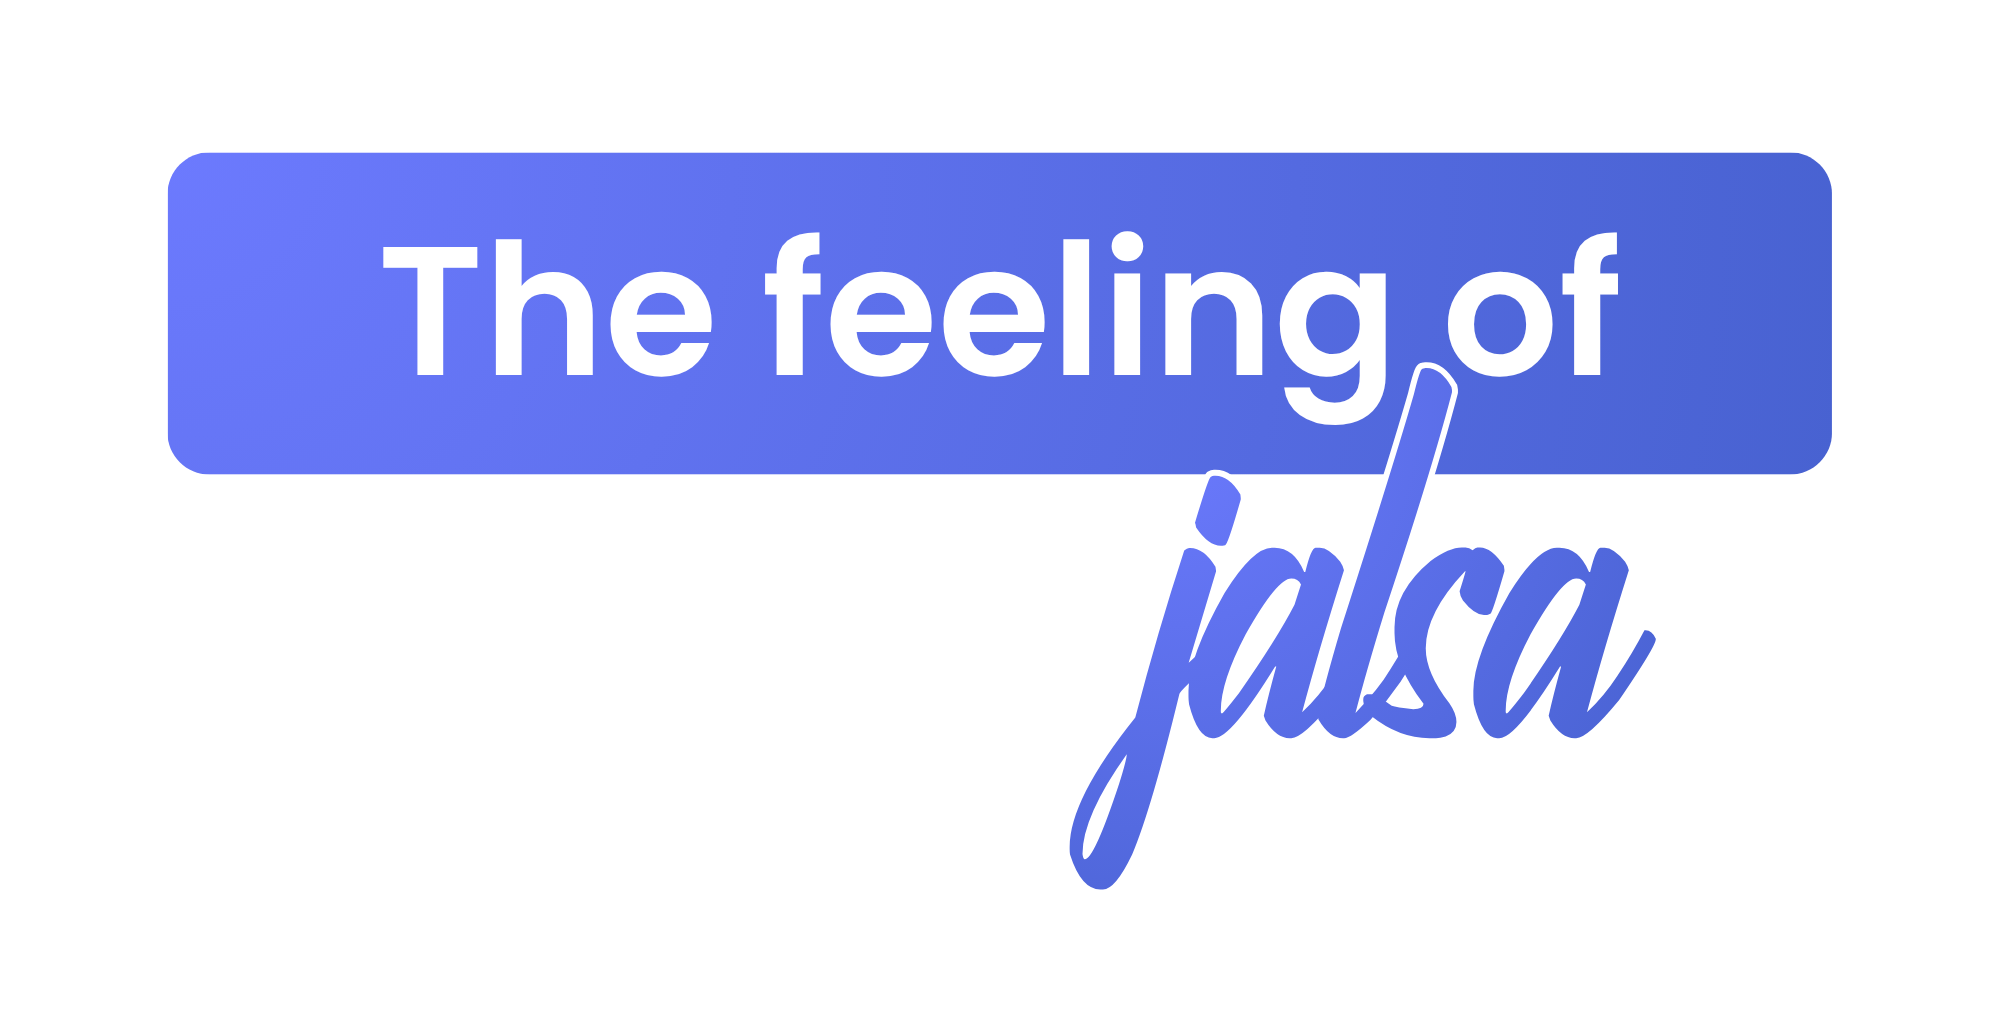
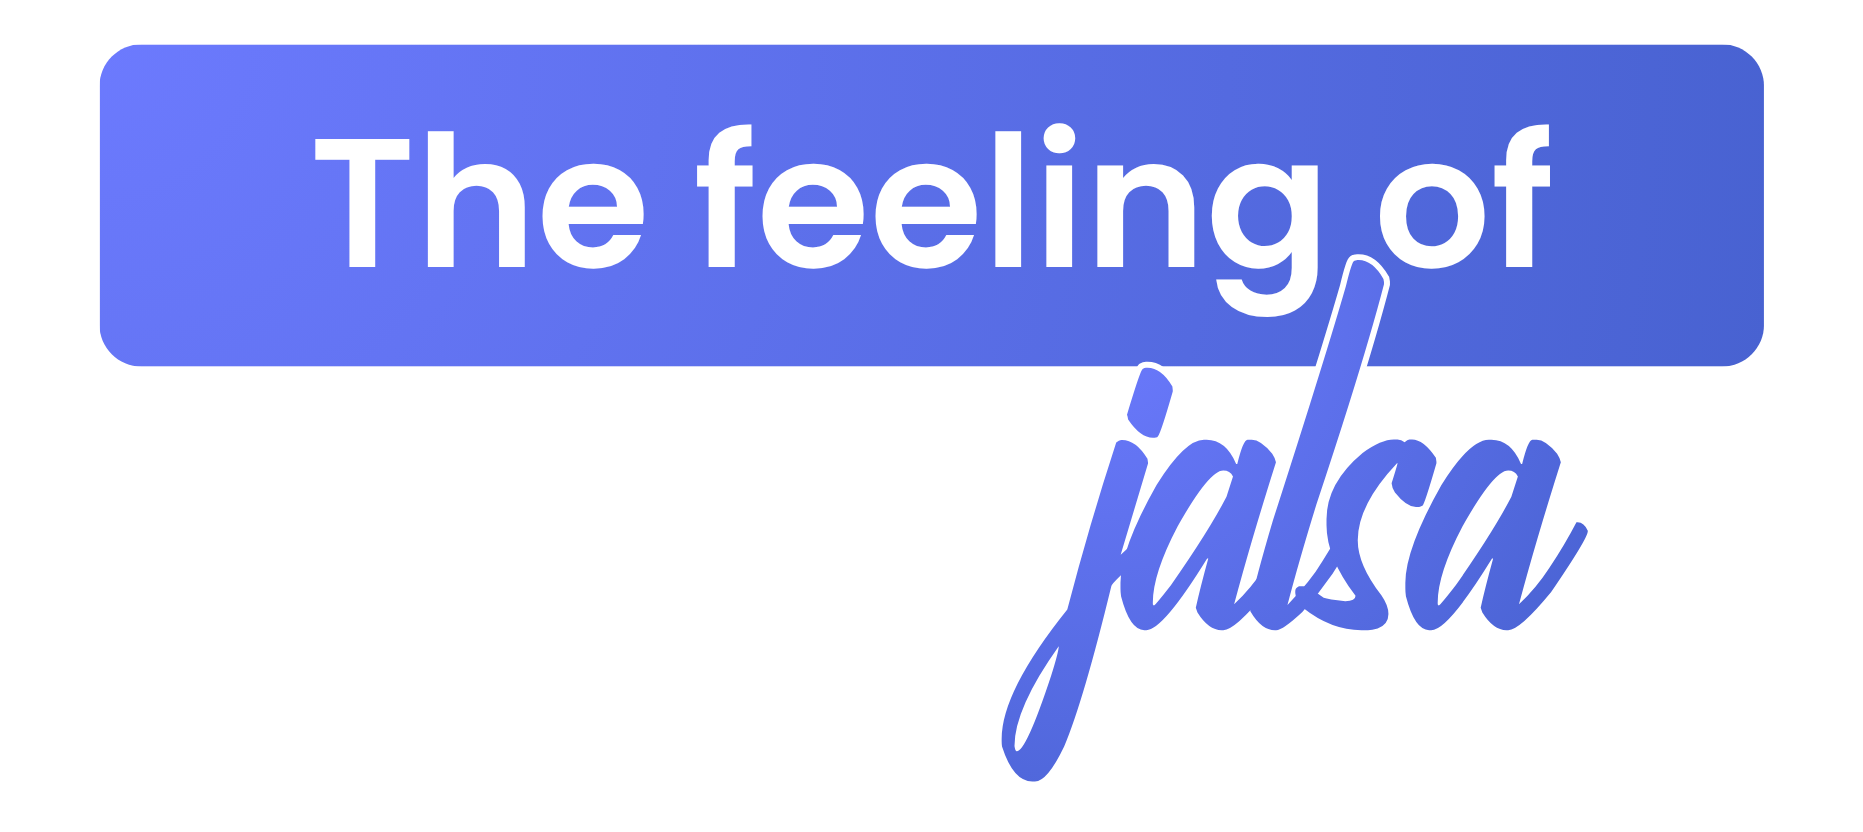
Added VVN and Bhopal to the Wesbite

Changed region(s): [[0.0311, 0.0312, 0.9651, 0.9375]]

diff --git a/cities.html b/cities.html
@@ -38,6 +38,7 @@
                     <ul class="dropdown-menu">
                         <li><a href="ahmedabad.html">Ahmedabad</a></li>
                        <li><a href="bengaluru.html">Bengaluru</a></li>
+                        <li><a href="bhopal.html">Bhopal</a></li>
                         <li><a href="chandigarh.html">Chandigarh</a></li>
                         <li><a href="chennai.html">Chennai</a></li>
                        <li><a href="delhi-iit.html">Delhi IIT</a></li>
@@ -55,6 +56,7 @@
                         <li><a href="pune.html">Pune</a></li>
                         <li><a href="surat.html">Surat</a></li>
                         <li><a href="visakhapatnam.html">Visakhapatnam</a></li>
+                        <li><a href="vvn.html">VVN</a></li>
                     </ul>
                 </li>
                 <li class="dropdown">
@@ -76,7 +78,7 @@
         <div class="container">
             <div class="section-header">
                 <h1 class="section-title">Explore All Cities</h1>
-                <p class="section-desc">19 AIESEC Local Committees across India — each offering a unique cultural immersion and exchange experience.</p>
+                <p class="section-desc">21 AIESEC Local Committees across India — each offering a unique cultural immersion and exchange experience.</p>
             </div>
         </div>
     </section>
@@ -106,6 +108,18 @@
                         </div>
                         <div class="city-mini-content">
                             <span class="city-mini-state">Karnataka</span>
+                            <span class="city-mini-explore">Explore →</span>
+                        </div>
+                </a>
+
+                <a href="bhopal.html" class="city-mini-card">
+                        <div class="city-mini-img">
+                            <img src="https://upload.wikimedia.org/wikipedia/commons/5/56/Raja_Bhoj_Statue_on_Upper_Lake%2C_Bhopal..JPG" alt="Bhopal" loading="lazy">
+                            <div class="city-mini-overlay"></div>
+                            <div class="city-mini-name">Bhopal</div>
+                        </div>
+                        <div class="city-mini-content">
+                            <span class="city-mini-state">Madhya Pradesh</span>
                             <span class="city-mini-explore">Explore →</span>
                         </div>
                 </a>
@@ -310,6 +324,18 @@
                         </div>
                         <div class="city-mini-content">
                             <span class="city-mini-state">Andhra Pradesh</span>
+                            <span class="city-mini-explore">Explore →</span>
+                        </div>
+                </a>
+
+                <a href="vvn.html" class="city-mini-card">
+                        <div class="city-mini-img">
+                            <img src="https://upload.wikimedia.org/wikipedia/commons/d/d6/Nalini-Arvind_and_T._V._Patel_Arts_College.jpg" alt="VVN" loading="lazy">
+                            <div class="city-mini-overlay"></div>
+                            <div class="city-mini-name">VVN</div>
+                        </div>
+                        <div class="city-mini-content">
+                            <span class="city-mini-state">Gujarat</span>
                             <span class="city-mini-explore">Explore →</span>
                         </div>
                 </a>

diff --git a/index.html b/index.html
@@ -46,6 +46,7 @@
                     <ul class="dropdown-menu">
                         <li><a href="ahmedabad.html">Ahmedabad</a></li>
                        <li><a href="bengaluru.html">Bengaluru</a></li>
+                        <li><a href="bhopal.html">Bhopal</a></li>
                         <li><a href="chandigarh.html">Chandigarh</a></li>
                         <li><a href="chennai.html">Chennai</a></li>
                        <li><a href="delhi-iit.html">Delhi IIT</a></li>
@@ -63,6 +64,7 @@
                         <li><a href="pune.html">Pune</a></li>
                         <li><a href="surat.html">Surat</a></li>
                         <li><a href="visakhapatnam.html">Visakhapatnam</a></li>
+                        <li><a href="vvn.html">VVN</a></li>
                     </ul>
                 </li>
                 <li class="dropdown">
@@ -169,7 +171,7 @@
         <div class="container">
             <div class="section-header">
                 <h2 class="section-title">Explore Our Cities</h2>
-                <p class="section-desc">19 AIESEC Local Committees spread across India, each with its own flavour of culture and exchange.</p>
+                <p class="section-desc">21 AIESEC Local Committees spread across India, each with its own flavour of culture and exchange.</p>
             </div>
             <div class="cities-grid-responsive">
 
@@ -193,6 +195,18 @@
                     </div>
                     <div class="city-mini-content">
                         <span class="city-mini-state">Karnataka</span>
+                        <span class="city-mini-explore">Explore →</span>
+                    </div>
+                </a>
+
+                <a href="bhopal.html" class="city-mini-card">
+                    <div class="city-mini-img">
+                        <img src="https://upload.wikimedia.org/wikipedia/commons/5/56/Raja_Bhoj_Statue_on_Upper_Lake%2C_Bhopal..JPG" alt="Bhopal" loading="lazy">
+                        <div class="city-mini-overlay"></div>
+                        <div class="city-mini-name">Bhopal</div>
+                    </div>
+                    <div class="city-mini-content">
+                        <span class="city-mini-state">Madhya Pradesh</span>
                         <span class="city-mini-explore">Explore →</span>
                     </div>
                 </a>
@@ -397,6 +411,18 @@
                     </div>
                     <div class="city-mini-content">
                         <span class="city-mini-state">Andhra Pradesh</span>
+                        <span class="city-mini-explore">Explore →</span>
+                    </div>
+                </a>
+
+                <a href="vvn.html" class="city-mini-card">
+                    <div class="city-mini-img">
+                        <img src="https://upload.wikimedia.org/wikipedia/commons/d/d6/Nalini-Arvind_and_T._V._Patel_Arts_College.jpg" alt="VVN" loading="lazy">
+                        <div class="city-mini-overlay"></div>
+                        <div class="city-mini-name">VVN</div>
+                    </div>
+                    <div class="city-mini-content">
+                        <span class="city-mini-state">Gujarat</span>
                         <span class="city-mini-explore">Explore →</span>
                     </div>
                 </a>

diff --git a/opportunities.html b/opportunities.html
@@ -388,6 +388,7 @@
                     <ul class="dropdown-menu">
                         <li><a href="ahmedabad.html">Ahmedabad</a></li>
                        <li><a href="bengaluru.html">Bengaluru</a></li>
+                        <li><a href="bhopal.html">Bhopal</a></li>
                         <li><a href="chandigarh.html">Chandigarh</a></li>
                         <li><a href="chennai.html">Chennai</a></li>
                        <li><a href="delhi-iit.html">Delhi IIT</a></li>
@@ -405,6 +406,7 @@
                         <li><a href="pune.html">Pune</a></li>
                         <li><a href="surat.html">Surat</a></li>
                         <li><a href="visakhapatnam.html">Visakhapatnam</a></li>
+                        <li><a href="vvn.html">VVN</a></li>
                     </ul>
                 </li>
                 <li class="dropdown">
@@ -465,13 +467,13 @@
                                 <div class="filter-select-wrap">
                                     <select id="filter-lc">
                                         <option value="all">All Cities</option>
-                                        <option>Ahmedabad</option><option>Bengaluru</option><option>Chandigarh</option>
+                                        <option>Ahmedabad</option><option>Bengaluru</option><option>Bhopal</option><option>Chandigarh</option>
                                         <option>Chennai</option><option>Delhi IIT</option><option>Delhi University</option>
                                         <option>Hyderabad</option><option>Indore</option><option>Jaipur</option>
                                         <option>Jalandhar</option><option>Kolkata</option><option>Ludhiana</option>
                                         <option>MAHE</option><option>Mumbai</option><option>Navi Mumbai</option>
                                         <option>Patiala</option><option>Pune</option>
-                                        <option>Surat</option><option>Visakhapatnam</option>
+                                        <option>Surat</option><option>Vallabh Vidyanagar (VVN)</option><option>Visakhapatnam</option>
                                     </select>
                                 </div>
                             </div>

diff --git a/js/main.js b/js/main.js
@@ -219,13 +219,14 @@ document.addEventListener('DOMContentLoaded', () => {
     // --- Searchtool deep-links: city program cards → searchtool with LC + type pre-selected ---
     const LC_NAME_MAP = {
         'ahmedabad': 'Ahmedabad',
-        'bengaluru': 'Bengaluru', 'chandigarh': 'Chandigarh', 'chennai': 'Chennai',
+        'bengaluru': 'Bengaluru', 'bhopal': 'Bhopal', 'chandigarh': 'Chandigarh', 'chennai': 'Chennai',
         'delhi-iit': 'Delhi IIT', 'delhi-university': 'Delhi University',
         'hyderabad': 'Hyderabad', 'indore': 'Indore', 'jaipur': 'Jaipur',
         'jalandhar': 'Jalandhar', 'kolkata': 'Kolkata', 'ludhiana': 'Ludhiana',
         'mahe': 'MAHE', 'mumbai': 'Mumbai', 'navi-mumbai': 'Navi Mumbai',
         'patiala': 'Patiala', 'pune': 'Pune',
         'surat': 'Surat', 'visakhapatnam': 'Visakhapatnam',
+        'vvn': 'Vallabh Vidyanagar (VVN)',
     };
     const PROG_TYPE_MAP = { gv: 'igv', gta: 'igta', gte: 'igte' };
 

diff --git a/about.html b/about.html
@@ -38,6 +38,7 @@
                     <ul class="dropdown-menu">
                         <li><a href="ahmedabad.html">Ahmedabad</a></li>
                        <li><a href="bengaluru.html">Bengaluru</a></li>
+                        <li><a href="bhopal.html">Bhopal</a></li>
                         <li><a href="chandigarh.html">Chandigarh</a></li>
                         <li><a href="chennai.html">Chennai</a></li>
                        <li><a href="delhi-iit.html">Delhi IIT</a></li>
@@ -55,6 +56,7 @@
                         <li><a href="pune.html">Pune</a></li>
                         <li><a href="surat.html">Surat</a></li>
                         <li><a href="visakhapatnam.html">Visakhapatnam</a></li>
+                        <li><a href="vvn.html">VVN</a></li>
                     </ul>
                 </li>
                 <li class="dropdown">

diff --git a/ahmedabad.html b/ahmedabad.html
@@ -46,6 +46,7 @@
                     <ul class="dropdown-menu">
                         <li><a href="ahmedabad.html" class="active">Ahmedabad</a></li>
                        <li><a href="bengaluru.html">Bengaluru</a></li>
+                        <li><a href="bhopal.html">Bhopal</a></li>
                         <li><a href="chandigarh.html">Chandigarh</a></li>
                         <li><a href="chennai.html">Chennai</a></li>
                        <li><a href="delhi-iit.html">Delhi IIT</a></li>
@@ -63,6 +64,7 @@
                         <li><a href="pune.html">Pune</a></li>
                         <li><a href="surat.html">Surat</a></li>
                         <li><a href="visakhapatnam.html">Visakhapatnam</a></li>
+                        <li><a href="vvn.html">VVN</a></li>
                     </ul>
                 </li>
                 <li class="dropdown">

diff --git a/amravati.html b/amravati.html
@@ -47,6 +47,7 @@
                         <li><a href="ahmedabad.html">Ahmedabad</a></li>
                         <li><a href="amravati.html" class="active">Amravati</a></li>
                        <li><a href="bengaluru.html">Bengaluru</a></li>
+                        <li><a href="bhopal.html">Bhopal</a></li>
                         <li><a href="chandigarh.html">Chandigarh</a></li>
                         <li><a href="chennai.html">Chennai</a></li>
                        <li><a href="delhi-iit.html">Delhi IIT</a></li>
@@ -64,6 +65,7 @@
                         <li><a href="pune.html">Pune</a></li>
                         <li><a href="surat.html">Surat</a></li>
                         <li><a href="visakhapatnam.html">Visakhapatnam</a></li>
+                        <li><a href="vvn.html">VVN</a></li>
                     </ul>
                 </li>
                 <li class="dropdown">

diff --git a/anand.html b/anand.html
@@ -47,6 +47,7 @@
                         <li><a href="ahmedabad.html">Ahmedabad</a></li>
                        <li><a href="anand.html" class="active">Anand</a></li>
                         <li><a href="bengaluru.html">Bengaluru</a></li>
+                        <li><a href="bhopal.html">Bhopal</a></li>
                         <li><a href="chandigarh.html">Chandigarh</a></li>
                         <li><a href="chennai.html">Chennai</a></li>
                        <li><a href="delhi-iit.html">Delhi IIT</a></li>
@@ -64,6 +65,7 @@
                         <li><a href="pune.html">Pune</a></li>
                         <li><a href="surat.html">Surat</a></li>
                         <li><a href="visakhapatnam.html">Visakhapatnam</a></li>
+                        <li><a href="vvn.html">VVN</a></li>
                     </ul>
                 </li>
                 <li class="dropdown">

diff --git a/bengaluru.html b/bengaluru.html
@@ -46,6 +46,7 @@
                     <ul class="dropdown-menu">
                         <li><a href="ahmedabad.html">Ahmedabad</a></li>
                        <li><a href="bengaluru.html" class="active">Bengaluru</a></li>
+                        <li><a href="bhopal.html">Bhopal</a></li>
                         <li><a href="chandigarh.html">Chandigarh</a></li>
                         <li><a href="chennai.html">Chennai</a></li>
                        <li><a href="delhi-iit.html">Delhi IIT</a></li>
@@ -63,6 +64,7 @@
                         <li><a href="pune.html">Pune</a></li>
                         <li><a href="surat.html">Surat</a></li>
                         <li><a href="visakhapatnam.html">Visakhapatnam</a></li>
+                        <li><a href="vvn.html">VVN</a></li>
                     </ul>
                 </li>
                 <li class="dropdown">

diff --git a/chandigarh.html b/chandigarh.html
@@ -46,6 +46,7 @@
                     <ul class="dropdown-menu">
                         <li><a href="ahmedabad.html">Ahmedabad</a></li>
                        <li><a href="bengaluru.html">Bengaluru</a></li>
+                        <li><a href="bhopal.html">Bhopal</a></li>
                         <li><a href="chandigarh.html" class="active">Chandigarh</a></li>
                         <li><a href="chennai.html">Chennai</a></li>
                        <li><a href="delhi-iit.html">Delhi IIT</a></li>
@@ -63,6 +64,7 @@
                         <li><a href="pune.html">Pune</a></li>
                         <li><a href="surat.html">Surat</a></li>
                         <li><a href="visakhapatnam.html">Visakhapatnam</a></li>
+                        <li><a href="vvn.html">VVN</a></li>
                     </ul>
                 </li>
                 <li class="dropdown">

diff --git a/chennai.html b/chennai.html
@@ -46,6 +46,7 @@
                     <ul class="dropdown-menu">
                         <li><a href="ahmedabad.html">Ahmedabad</a></li>
                        <li><a href="bengaluru.html">Bengaluru</a></li>
+                        <li><a href="bhopal.html">Bhopal</a></li>
                         <li><a href="chandigarh.html">Chandigarh</a></li>
                         <li><a href="chennai.html" class="active">Chennai</a></li>
                        <li><a href="delhi-iit.html">Delhi IIT</a></li>
@@ -63,6 +64,7 @@
                         <li><a href="pune.html">Pune</a></li>
                         <li><a href="surat.html">Surat</a></li>
                         <li><a href="visakhapatnam.html">Visakhapatnam</a></li>
+                        <li><a href="vvn.html">VVN</a></li>
                     </ul>
                 </li>
                 <li class="dropdown">

diff --git a/dehradun.html b/dehradun.html
@@ -46,6 +46,7 @@
                     <ul class="dropdown-menu">
                         <li><a href="ahmedabad.html">Ahmedabad</a></li>
                        <li><a href="bengaluru.html">Bengaluru</a></li>
+                        <li><a href="bhopal.html">Bhopal</a></li>
                         <li><a href="chandigarh.html">Chandigarh</a></li>
                         <li><a href="chennai.html">Chennai</a></li>
                         <li><a href="dehradun.html" class="active">Dehradun</a></li>
@@ -64,6 +65,7 @@
                         <li><a href="pune.html">Pune</a></li>
                         <li><a href="surat.html">Surat</a></li>
                         <li><a href="visakhapatnam.html">Visakhapatnam</a></li>
+                        <li><a href="vvn.html">VVN</a></li>
                     </ul>
                 </li>
                 <li class="dropdown">